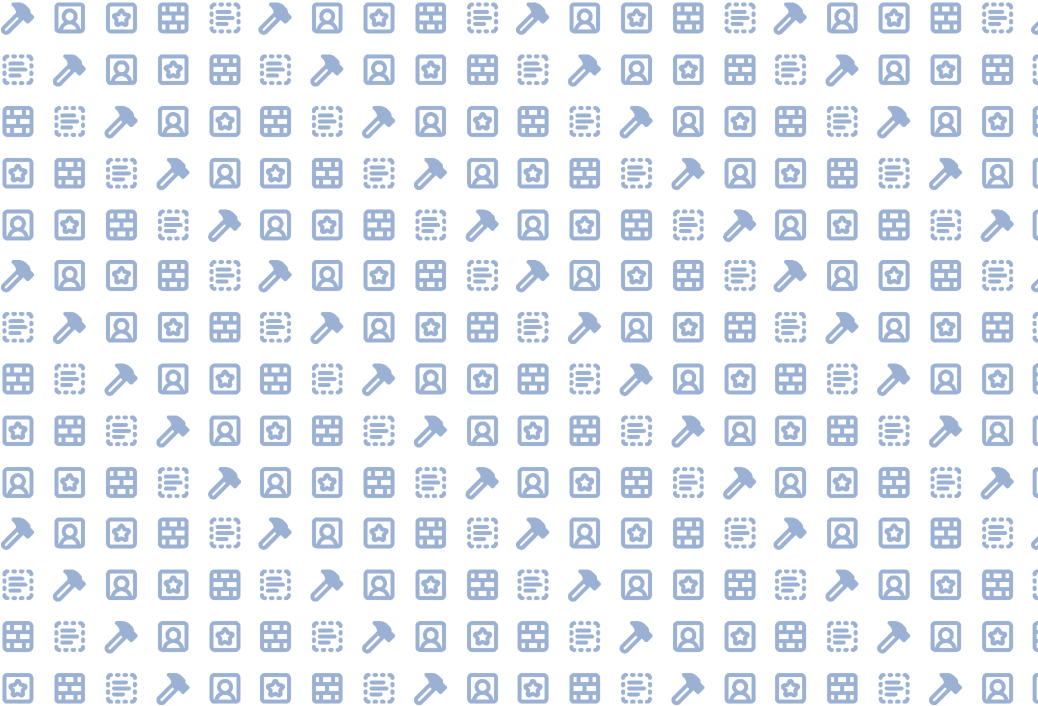
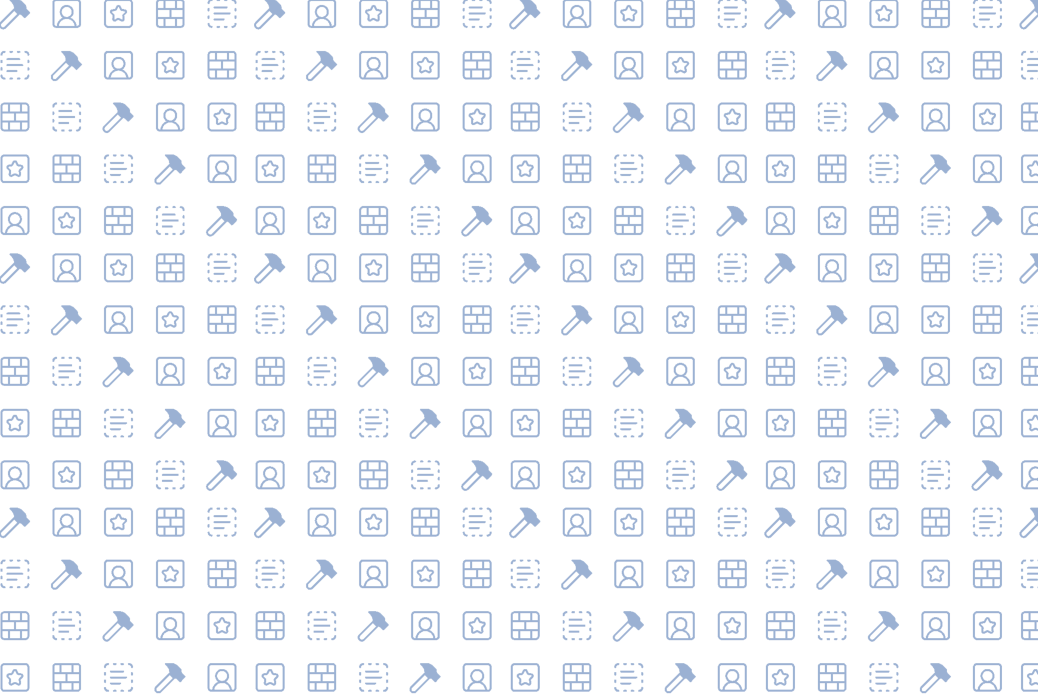
refactor: replace static images with theme-based dynamic image component and update image paths

Changed region(s): [[0.0, 0.0, 1.0, 0.4828], [0.0, 0.6638, 1.0, 1.0], [0.0, 0.5129, 1.0, 0.6336]]

diff --git a/src/components/Image/ThemeImage.tsx b/src/components/Image/ThemeImage.tsx
@@ -1,0 +1,39 @@
+'use client'
+
+import { useTheme } from 'next-themes'
+import Image from "next/image";
+import { useSyncExternalStore } from 'react';
+
+interface ThemeImageProps {
+    src: string;
+    width?: number;
+    height?: number;
+    alt?: string;
+    className?: string;
+}
+
+const emptySubscribe = () => () => {};
+
+export default function ThemeImage({src, width, height, alt, className}: ThemeImageProps) {
+    const isMounted = useSyncExternalStore(
+        emptySubscribe,
+        () => true,
+        () => false
+    );
+
+    const { resolvedTheme } = useTheme();
+
+    const currentTheme = isMounted && resolvedTheme ? resolvedTheme : 'dark';
+    const imageSrc = `${src.split('.')[0]}_${currentTheme}.webp`;
+
+    return (
+        <div>
+            <Image
+                src={imageSrc}
+                width={width ?? 100}
+                height={height ?? 100}
+                alt={alt ?? 'alt'}
+                className={className}/>
+        </div>
+    )
+}

diff --git a/src/components/Content/Projects.tsx b/src/components/Content/Projects.tsx
@@ -16,18 +16,21 @@ export default function Projects() {
               <h1 className='text-2xl max-md:text-xl font-bold'>Flectone<b>Pulse</b></h1>
               <p className='w-2/3 max-md:text-md'>{t('Pulse.description')}</p>
             </div>
-            <Image width={700} height={400} src="/flectonepulse_title.webp" className="max-lg:hidden absolute right-20 w-lg mr-10 max-xl:w-md max-lg:w-sm max-md:w-xs z-50" alt='flectonepulse' />
+            <Image width={700} height={400} src="/assets/flectonepulse/flectonepulse_title.webp" className="max-lg:hidden absolute right-20 w-lg mr-10 max-xl:w-md max-lg:w-sm max-md:w-xs z-50" alt='flectonepulse' />
             <div className="max-sm:hidden w-4/5 right-0 mask-[linear-gradient(to_left,white,transparent)] absolute flex items-center justify-center">
-              <Image width={580} height={120} src="/flectonepulse_features.webp" alt="metrics" className="w-full" />
+              <Image width={580} height={120} src="/assets/flectonepulse/flectonepulse_features.webp" alt="metrics" className="w-full" />
             </div>
           </Card>
           <FeatureCard
             link={'/tools'}
             className='w-full items-center flex p-10'
-            image={'/assets/flectonetools/flectonetools_preview_dark.webp'}
+            image={'/assets/flectonetools/flectonetools_preview.webp'}
             title={<h1 className='text-2xl max-md:text-xl font-bold'>Flectone<b>Tools</b></h1>}
             description={<p className={'w-full max-md:text-md'}>{t('Tools.description')}</p>}
             imagePosition={'right'}
+            imageWidth={1200}
+            imageHeight={1000}
+            imageAlt={'flectonetools'}
           />
         </div>
         <div className="flex flex-col gap-4">
@@ -36,10 +39,13 @@ export default function Projects() {
             <FeatureCard
               link={'/mix'}
               className='w-1/2 max-xl:w-full items-center flex p-10'
-              image={'/assets/flectonemix/flectonemix_preview_dark.webp'}
+              image={'/assets/flectonemix/flectonemix_preview.webp'}
               title={<h1 className='text-2xl max-md:text-xl font-bold'>Flectone<b>Mix</b></h1>}
               description={<p className={'w-2/3 max-md:text-md'}>{t('Mix.description')}</p>}
               imagePosition={'right'}
+              imageWidth={800}
+              imageHeight={600}
+              imageAlt={'flectonetools'}
             />
             <FeatureCard
               link={'/chat'}
@@ -48,6 +54,9 @@ export default function Projects() {
               title={<h1 className='text-2xl max-md:text-xl font-bold'>Flectone<b>Chat</b></h1>}
               description={<p className={'w-2/3 max-md:text-md'}>{t('Chat.description')}</p>}
               imagePosition={'right'}
+              imageWidth={800}
+              imageHeight={600}
+              imageAlt={'flectonetools'}
             />
           </div>
         </div>

diff --git a/src/components/Card/FeatureCard.tsx b/src/components/Card/FeatureCard.tsx
@@ -1,6 +1,6 @@
 import Card from "@/components/Card/Card";
 import { ReactNode } from "react";
-import Image from "next/image";
+import ThemeImage from "@/components/Image/ThemeImage";
 
 interface FeatureCardProps {
     className?: string;
@@ -10,6 +10,9 @@ interface FeatureCardProps {
     description: string | ReactNode;
     link?: string;
     glow?: 'rightTop' | 'rightBottom' | 'leftTop' | 'leftBottom' | 'centerTop';
+    imageHeight?: number;
+    imageAlt?: string;
+    imageWidth?: number;
 }
 
 const glowStyles: Record<Required<FeatureCardProps>['glow'], string> = {
@@ -28,12 +31,14 @@ const imageStyles: Record<FeatureCardProps['imagePosition'], string> = {
 }
 
 
-export default function FeatureCard({ className, image, title, description, link, glow, imagePosition }: FeatureCardProps) {
+export default function FeatureCard({ className, image, title, description, link, glow, imagePosition, imageWidth, imageHeight, imageAlt }: FeatureCardProps) {
     return (
         <Card path={link} className={`${className} not-dark:border`}>
-            <img   src={image}
-                   className={`${imageStyles[imagePosition]} text-fd-primary not-dark:contrast-70 rounded-lg absolute -z-1 `}
-                   alt={"feature"} />
+            <ThemeImage src={image}
+                   width={imageWidth}
+                   height={imageHeight}
+                   className={`${imageStyles[imagePosition]} text-fd-primary rounded-lg absolute -z-1 `}
+                   alt={imageAlt ?? "feature"} />
             <div className='text-start flex flex-col gap-1'>
                 {typeof title === 'string' ? <h2 className='font-medium'>{title}</h2> : title}
                 {typeof description === 'string' ? <p className=''>{description}</p> : description}

diff --git a/src/components/Pulse/Features.tsx b/src/components/Pulse/Features.tsx
@@ -11,29 +11,34 @@ export default function Feautures() {
                 className='w-1/3 h-72 max-[52rem]:w-full max-[52rem]:h-62 max-[64rem]:h-52'
                 title={t("Message.title")}
                 description={t("Message.description")}
-                image="/assets/flectonepulse/flectonepulse_chat_dark.webp"
+                image="/assets/flectonepulse/flectonepulse_chat.webp"
                 link="/pulse/docs/message"
                 glow="rightTop"
                 imagePosition={'bottom'}
-
+                imageWidth={800}
+                imageHeight={600}
             />
             <FeatureCard
                 className='w-1/3 h-72 max-[52rem]:w-full max-[52rem]:h-62 max-[64rem]:h-52'
                 title={t("Command.title")}
                 description={t("Command.description")}
-                image="/assets/flectonepulse/flectonepulse_minigame_dark.webp"
+                image="/assets/flectonepulse/flectonepulse_minigame.webp"
                 link="/pulse/docs/command"
                 glow="centerTop"
                 imagePosition={'bottom'}
+                imageWidth={800}
+                imageHeight={600}
             />
             <FeatureCard
                 className='w-1/3 h-72 max-[52rem]:w-full max-[52rem]:h-62 max-[64rem]:h-52'
                 title={t("Integration.title")}
                 description={t("Integration.description")}
-                image="/assets/flectonepulse/flectonepulse_discord_dark.webp"
+                image="/assets/flectonepulse/flectonepulse_discord.webp"
                 link="/pulse/docs/integration"
                 glow="leftTop"
                 imagePosition={'bottom'}
+                imageWidth={800}
+                imageHeight={600}
             />
         </div>
     )

diff --git a/src/components/Content/FlectoneChat.tsx b/src/components/Content/FlectoneChat.tsx
@@ -4,6 +4,7 @@ import {SiGithub} from "react-icons/si";
 import {SiModrinth} from "react-icons/si";
 import {useTranslations} from "next-intl";
 import Svg from "@/components/Svg/Svg";
+import ThemeImage from "@/components/Image/ThemeImage";
 
 export default function FlectoneChat() {
 
@@ -23,7 +24,7 @@ export default function FlectoneChat() {
         </div>
       </Card>
       <Card className="w-full">
-        <img alt='flectonechat' src={t('imagePath')} className='rounded-md border-[0.5px]'/>
+        <ThemeImage width={1000} height={1000} alt='flectonechat' src={t('imagePath')} className='rounded-md border-[0.5px]'/>
       </Card>
     </div>
   )

diff --git a/src/components/Card/Card.tsx b/src/components/Card/Card.tsx
@@ -18,7 +18,7 @@ export default function Card({ className = '', children, path, target }: CardPro
 
   if (path) {
     return (
-      <Link href={path} target={target} className={base}>
+      <Link href={path} target={target} className={base} aria-label="">
         {children}
       </Link>
     )

diff --git a/src/app/[lang]/(main)/page.tsx b/src/app/[lang]/(main)/page.tsx
@@ -2,6 +2,7 @@ import Projects from "@/components/Content/Projects";
 import { useTranslations } from "next-intl";
 import Title from "@/components/Title/Title";
 import { createMetadata } from "@/lib/create-metadata";
+import ThemeImage from "@/components/Image/ThemeImage";
 
 export const generateMetadata = createMetadata({
   namespace: 'Root'